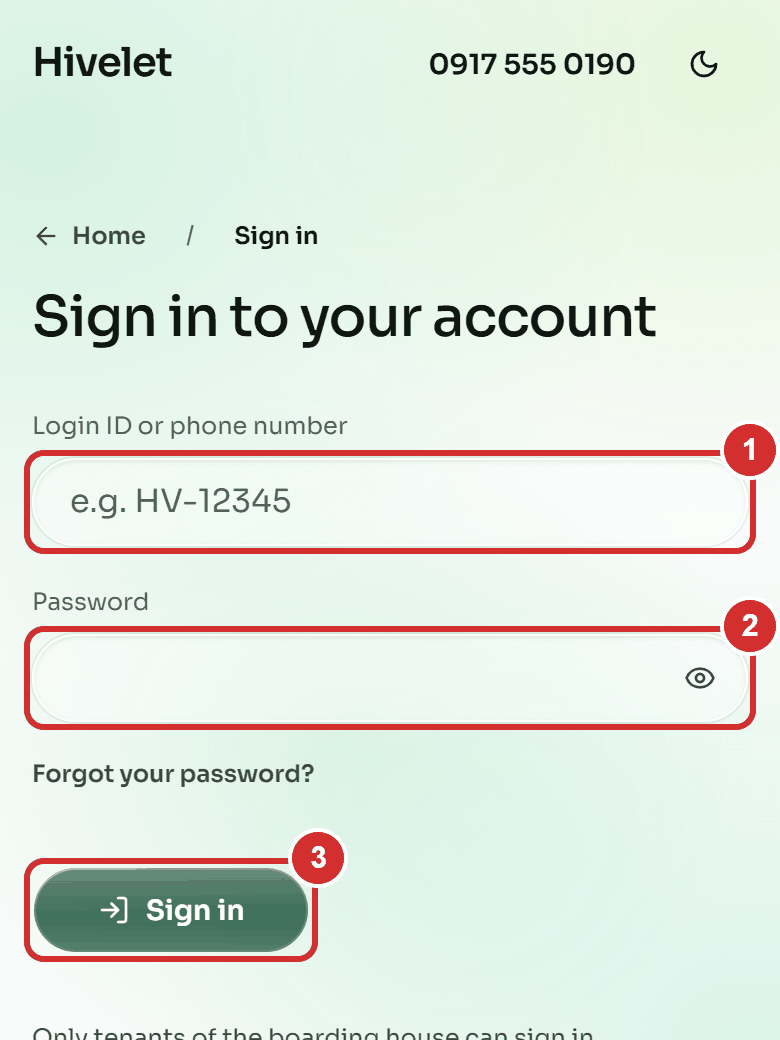
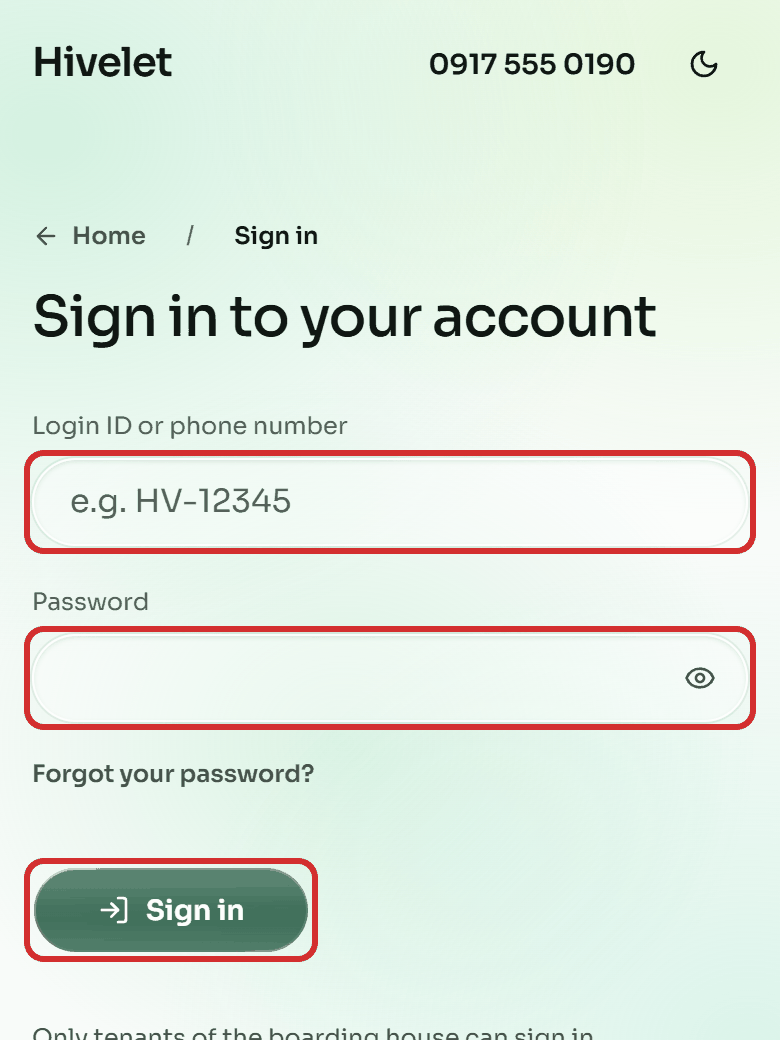
Appendix K reads as a separate manual: no figure labels
The team asked (15 Nov 2026) for the User's Manual to stand on its own, like a
manual bound in the back. The sixteen screenshots now sit under their section
headings with no caption and no figure number, so none of them enters the List
of Figures, and the sentences keyed to callout numbers are gone.

Red boxes still mark each button or box the text names. Red numbers stay only on
the two screens whose section is a list of steps (tenant Repairs, Record
payment), where they are the step numbers. Section 1 now names the first
sign-in window's button, Save and continue.

Changed region(s): [[0.9231, 0.5538, 1.0, 0.6462], [0.9231, 0.4, 1.0, 0.4615], [0.3692, 0.8, 0.4615, 0.8615]]

diff --git a/docs/FINAL MANUSCRIPT/USER_MANUAL_APPENDIX_K.md b/docs/FINAL MANUSCRIPT/USER_MANUAL_APPENDIX_K.md
@@ -6,14 +6,16 @@ screen name below is the one the system showed on 10 November 2026.
 Hivelet is at **https://hivelet.vercel.app**. It works in any current browser on a phone or a
 computer, and it can be installed on a phone's home screen (Part 1, section 6).
 
-Figures K-1 to K-16 show the screens, taken from the system with sample data in place of the
-tenants' records. The red numbers mark where each step is done, and the sentence before each
-figure says what each number is.
+The pictures show each screen with sample data in place of the tenants' records. A red box marks
+each button or box named beside it. Where a section is a list of steps, the red numbers are the
+steps.
 
 > **TEAM NOTE (delete before pasting into the manuscript).** Part 1 is also the one-page handout
 > for tenants: `TENANT_QUICK_GUIDE_PRINT.html` is the same text laid out to print, two per A4 sheet.
-> Change both together. Figures K-1 to K-16 come from the sample-data harness
-> (`video/capture/manual-shots.mjs`, which says how), so no tenant's name is in them. Retake them if a screen changes.
+> Change both together. The pictures here have no caption or figure number on purpose (the team,
+> 15 Nov 2026): the manual reads as a separate document, so they stay out of the List of Figures.
+> They come from the sample-data harness (`video/capture/manual-shots.mjs`, which says how), so no
+> tenant's name is in them. Retake them if a screen changes.
 
 ---
 
@@ -21,25 +23,17 @@ figure says what each number is.
 
 ### 1. Signing in for the first time / Unang pag-sign in
 
+![The sign-in page](figures/appendix-k-01-sign-in-phone.png)
+
 1. Open **hivelet.vercel.app** and tap **Sign in**. *Buksan ang hivelet.vercel.app at pindutin ang Sign in.*
 2. Type your **login ID** (for example HV-48213) and the **starting password** the landlady gave
    you. *I-type ang inyong login ID at ang starting password na ibinigay ng landlady.*
 3. A window asks for **your own mobile number and your own password**. Type the starting
    password again, then your new one twice. It must have **at least 10 characters, a letter and a
-   number**. *Ilagay ang sariling numero at password:
+   number**. Then press **Save and continue**. *Ilagay ang sariling numero at password:
    hindi bababa sa 10 character, may letra at numero.*
 4. Keep your password to yourself. The slip stops working once you have your own.
    *Huwag ibahagi ang password.*
-
-In Figure K-1, type the login ID in (1) and the password in (2), then press **Sign in** (3).
-Figure K-2 is the window that follows: (1) your mobile number, (2) the starting password,
-(3) the new password, (4) the new password again, and (5) **Save and continue**.
-
-*Figure K-1. The sign-in page on a phone.*
-
-![The sign-in page](figures/appendix-k-01-sign-in-phone.png)
-
-*Figure K-2. The window at a tenant's first sign-in.*
 
 ![The window at the first sign-in](figures/appendix-k-02-set-password-phone.png)
 
@@ -49,6 +43,8 @@ screen. *Nakalimutan ang password? Lumapit sa landlady. Bibigyan niya kayo ng ba
 **Five wrong passwords** lock the account for 15 minutes. Then it opens again by itself.
 
 ### 2. Overview / Pangunahing pahina
+
+![A tenant's Overview](figures/appendix-k-03-tenant-overview-phone.png)
 
 The greeting, with **Request a repair** at the top right (on a phone, the green button at the
 bottom right). Then:
@@ -62,13 +58,6 @@ bottom right). Then:
   payments **Recorded by the landlady**.
 - Under a line: your **Monthly charge** (rent and water), the **Next rent** and when it is due
   (once you are settled), and the **Landlady**'s number to call or text.
-
-In Figure K-3, (1) is **Amount due** with **Pay with GCash**, (2) is your unit, (3) is
-**Payments**, and (4) is the green **Request a repair** button.
-
-*Figure K-3. A tenant's Overview on a phone.*
-
-![A tenant's Overview](figures/appendix-k-03-tenant-overview-phone.png)
 
 The amount due counts only the payments the landlady has recorded, up to the date it shows
 ("Payments recorded up to…"). If you have paid and it is not there yet, it appears once she records
@@ -84,6 +73,8 @@ menu that opens from the top left. Its lines cannot be clicked, and only you see
 
 ### 3. Payments and billing / Bayad at singil
 
+![Payments and billing](figures/appendix-k-04-tenant-payments-phone.png)
+
 - **The bill** to pay, named by its month (for example **"Bill to pay, rent for November"**): the rent, plus
   water at **₱200 per occupant per month**. *Tubig: ₱200 bawat nakatira bawat buwan.*
 - The bill card shows only while something is to pay. Once you are settled the page is the **Payment record** alone. Only receipts the landlady has **verified** count, and a GCash payment you sent shows as **waiting** until she verifies it.
@@ -98,14 +89,9 @@ menu that opens from the top left. Its lines cannot be clicked, and only you see
   and takes no real money. Pay the landlady in person.** *Sa ngayon, sa landlady pa rin po magbayad
   nang personal.*
 
-In Figure K-4, (1) is the bill, (2) is **Pay with GCash**, (3) are the **History** and **Record**
-tabs, and (4) is **Filters**.
-
-*Figure K-4. Payments and billing on a phone.*
-
-![Payments and billing](figures/appendix-k-04-tenant-payments-phone.png)
-
 ### 4. Repairs / Pagpapaayos
+
+![Repairs, numbered by the steps](figures/appendix-k-05-tenant-repairs-phone.png)
 
 1. Open **Repairs** (or press **Request a repair** on your Overview). Under **Report it**, fill in
    **What needs fixing**, choose the **Category** and **How urgent**, and add the **Details**.
@@ -123,14 +109,9 @@ tabs, and (4) is **Filters**.
    has sent someone or started on it. Send her a note instead. A cancelled request stays in your list, marked
    **Cancelled**. *Puwedeng i-cancel habang hindi pa sinisimulan ng landlady.*
 
-Figure K-5 is numbered by the steps: (1) the boxes under **Report it**, (2) **Add a photo**,
-(3) **Send request**, and (4) **Your requests**.
-
-*Figure K-5. Repairs on a phone, numbered by the steps.*
-
-![Repairs](figures/appendix-k-05-tenant-repairs-phone.png)
-
 ### 5. My details / Aking detalye
+
+![My details](figures/appendix-k-06-tenant-details-phone.png)
 
 Keep your phone number and your **Emergency contact** (the person to call) up to date, then
 press **Save**. After your first sign-in you can sign in with your login ID or your phone number.
@@ -139,13 +120,6 @@ Your name can only be changed by the landlady. A phone number is spaced as you t
 numbers. If one is not, a note under the box says so, and nothing is saved until you correct it.
 **To change your password:** press **Change password** on My details, or tap your initials at the
 top right > **Change password**. *Para palitan ang password: Change password.*
-
-In Figure K-6, (1) is your mobile number, (2) is **Change password**, (3) is the person to call
-under **Emergency contact**, and (4) is **Save**.
-
-*Figure K-6. My details on a phone.*
-
-![My details](figures/appendix-k-06-tenant-details-phone.png)
 
 ### 6. Install it on your phone / I-install sa cellphone
 
@@ -174,15 +148,10 @@ before sending again. *Kapag walang signal, makikita pa rin ang huling na-load n
 
 ### 7. Signing out / Pag-sign out
 
+![The menu under a tenant's initials](figures/appendix-k-07-tenant-menu-phone.png)
+
 Tap your initials at the top right > **Sign out**. Always sign out on a phone that is not yours:
 it also removes the figures, names and notifications kept on the phone for viewing without signal.
-
-Figure K-7 is the menu that opens from your initials (1): (2) **Change password**, (3) **Sign
-out**, and (4) **System**, **Light** and **Dark** under **Appearance**.
-
-*Figure K-7. The menu under a tenant's initials.*
-
-![The menu under a tenant's initials](figures/appendix-k-07-tenant-menu-phone.png)
 
 ---
 
@@ -231,6 +200,8 @@ called **Boarding House** on every screen and in every downloaded workbook.
 
 ### 1. Signing in, your number and your password
 
+![The menu under the landlady's initials](figures/appendix-k-08-admin-menu.png)
+
 Sign in with your phone number and your password. Your number is shown under your name when you
 tap your initials at the top right. To change either: your initials > **Change number / password**.
 Type your **current number and current password** first, then a new number, a new password, or
@@ -238,14 +209,9 @@ both. If either current one is wrong the window says so without saying which, an
 A new number is the one you sign in with from then on, and the one every page of the website gives
 for calling you. Keep your password to yourself.
 
-Figure K-8 is the menu that opens from your initials (1): (2) **Change number / password**,
-(3) **Sign out**, and (4) **System**, **Light** and **Dark** under **Appearance**.
-
-*Figure K-8. The menu under the landlady's initials.*
-
-![The menu under the landlady's initials](figures/appendix-k-08-admin-menu.png)
-
 ### 2. Overview
+
+![The landlady's Overview](figures/appendix-k-09-admin-overview.png)
 
 The first screen shows, from the top:
 
@@ -288,15 +254,9 @@ the bottom.
 changes: a visitor writes back, or a repair is made more urgent. They are remembered on this device
 only, so another phone or computer shows its own count.
 
-In Figure K-9, (1) is the year, (2) the green buttons, (3) **Needs your attention**, (4) **Rent
-for** this month with **Due this week**, (5) **Occupancy**, (6) **Income and expenses**,
-(7) **Recently**, your recent actions, and (8) the bell.
-
-*Figure K-9. The landlady's Overview on a computer.*
-
-![The landlady's Overview](figures/appendix-k-09-admin-overview.png)
-
 ### 3. Recording a payment (Monthly Income)
+
+![Monthly Income](figures/appendix-k-10-income.png)
 
 1. **Monthly Income** > **Record payment**.
 2. Choose the **Unit**, the **Mode of payment** (Cash, GCash or Bank transfer, and for GCash or a
@@ -315,19 +275,7 @@ for** this month with **Due this week**, (5) **Occupancy**, (6) **Income and exp
    the occupants, that the tenant's record now shows the new number (their water from then on).
    **See it in Monthly Income** opens that month with the payment marked.
 
-In Figure K-10, (1) is **Record payment**, (2) **Rent for**, (3) **Income by cluster**, (4) the
-**Records** and **To verify** tabs, (5) **Reject** and **Verify payment**, and (6) **Download**.
-Figure K-11 is the **Record payment** window, numbered by the steps above: (2) the unit, the mode
-of payment, the period and the date paid, (3) **Occupants** and **Rent**, (4) the invoice box
-with **ACK**, and (5) **Record payment**.
-
-*Figure K-10. Monthly Income on a computer.*
-
-![Monthly Income](figures/appendix-k-10-income.png)
-
-*Figure K-11. The Record payment window, numbered by the steps.*
-
-![The Record payment window](figures/appendix-k-11-record-payment.png)
+![The Record payment window, numbered by the steps](figures/appendix-k-11-record-payment.png)
 
 The same invoice number cannot be recorded twice for the same unit and month.
 
@@ -366,6 +314,8 @@ TOTAL**.
 
 ### 4. Recording an expense (Monthly Expenses)
 
+![Monthly Expenses](figures/appendix-k-12-expenses.png)
+
 1. **Monthly Expenses** > **Record expense**.
 2. The **Date of the expense**, then for each expense **What for**, **What kind**, **Where** (the
    property area) and **How much**.
@@ -384,14 +334,9 @@ opens on **this year**, and its year is chosen the same way, beside the page nam
 rule for past years. **Download** asks **Month**, **Year** or **All**, as for income, and names the
 file the same way ("Monthly Expenses March 2026").
 
-In Figure K-12, (1) is **Record expense**, (2) the dropdowns, (3) an expense, which opens for
-editing when clicked, and (4) **Download**.
-
-*Figure K-12. Monthly Expenses on a computer.*
-
-![Monthly Expenses](figures/appendix-k-12-expenses.png)
-
 ### 5. Tenants
+
+![Tenants](figures/appendix-k-13-tenants.png)
 
 - **Move someone in**: full name, unit, deposit, move-in date, whether the unit is shared and by
   how many, and an emergency contact with their phone. Press **Move them in**. Their **login ID** and a **one-time password**
@@ -416,14 +361,9 @@ editing when clicked, and (4) **Download**.
   the list as a workbook, named like "Tenant History June 2025". **Clear** (under the search) goes back to your current
   tenants.
 
-In Figure K-13, (1) is **Move someone in**, (2) the dropdown that reads **Today**, and (3) a
-tenant's row, which opens their record.
-
-*Figure K-13. Tenants on a computer.*
-
-![Tenants](figures/appendix-k-13-tenants.png)
-
 ### 6. Rooms and rates
+
+![Rooms and rates](figures/appendix-k-14-rooms.png)
 
 Every unit, by cluster or as one list (**By cluster** or **As a list**, under **Filters** on a phone). The **All units** and **All clusters** dropdowns narrow them by
 status or cluster. Click or tap a unit to change its rate, kind, status, whether it is shown **On
@@ -432,13 +372,9 @@ public pages. **Replace photo** uploads one, and once saved the public page show
 photograph instead. Every rate change is kept in the unit's price history. The system never raises
 a rate by itself.
 
-In Figure K-14, (1) are the dropdowns and (2) is a unit, which opens for editing when clicked.
-
-*Figure K-14. Rooms and rates on a computer.*
-
-![Rooms and rates](figures/appendix-k-14-rooms.png)
-
 ### 7. Repairs
+
+![Repairs](figures/appendix-k-15-repairs.png)
 
 Requests are in three columns, **To dispatch**, **In progress** and **Done**, each card marked by
 urgency. Click or tap a card to open it
@@ -449,14 +385,9 @@ a repair** records one you were told about in person, or one for an empty unit. 
 cancelled (they can, until you send someone or start work) is marked **Cancelled by the tenant**, with their reason as a
 note if they gave one.
 
-In Figure K-15, (1), (2) and (3) are the **To dispatch**, **In progress** and **Done** columns,
-(4) is **Mark resolved**, (5) is **Log a repair**, and (6) is the **Status** dropdown.
-
-*Figure K-15. Repairs on a computer.*
-
-![Repairs](figures/appendix-k-15-repairs.png)
-
 ### 8. Inquiries
+
+![Inquiries](figures/appendix-k-16-inquiries.png)
 
 Messages from people asking about a unit. Type a reply and press the arrow (**Send reply**), **Close inquiry** when settled, or
 **Move them in** to start a tenancy with the details already filled in. A closed inquiry, or one whose
@@ -464,13 +395,6 @@ person moved in, takes no more replies. **Delete** (only on those) asks **"Delet
 undone. If the person who sent it opens its page again, it tells them the inquiry was closed and
 removed. The **All inquiries** dropdown (under **Filters** on a phone)
 shows only those **Waiting for an answer**, **Answered**, **Moved in** or **Closed**.
-
-In Figure K-16, (1) is an inquiry in the list, (2) the reply box, (3) **Send reply**, (4) **Close
-inquiry**, (5) **Move them in**, and (6) the **All inquiries** dropdown.
-
-*Figure K-16. Inquiries on a computer.*
-
-![Inquiries](figures/appendix-k-16-inquiries.png)
 
 The person who asked reads your reply on their inquiry's own page, and can write back there: when
 they send an inquiry they are given a link and a reference code for it, with **Copy the code**
